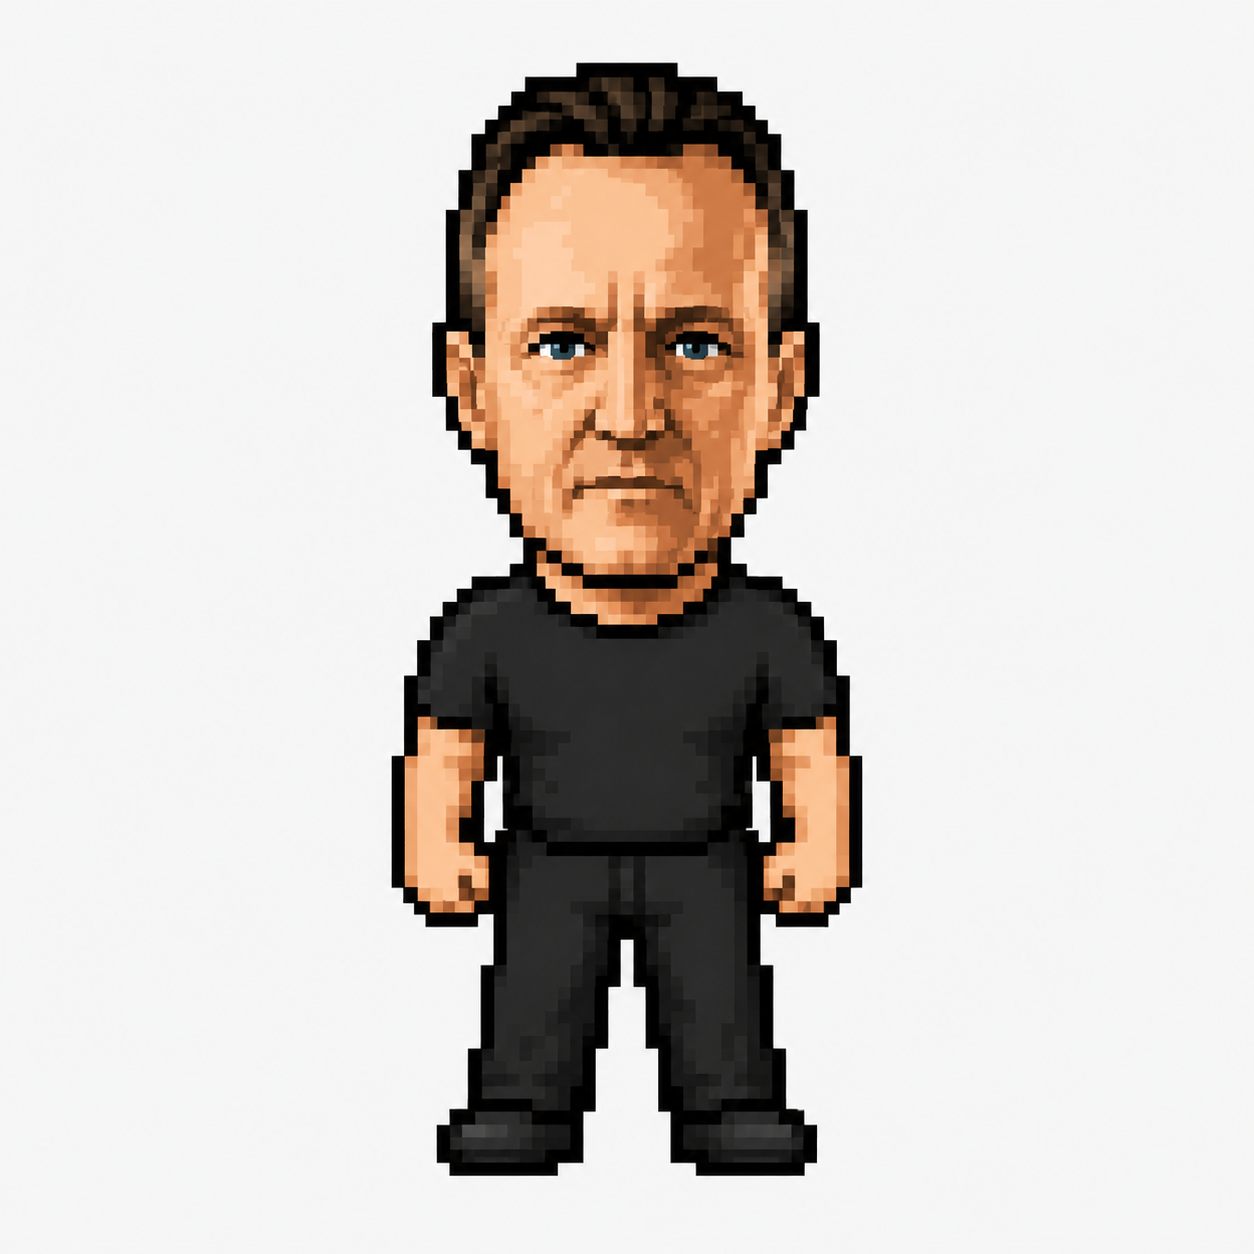
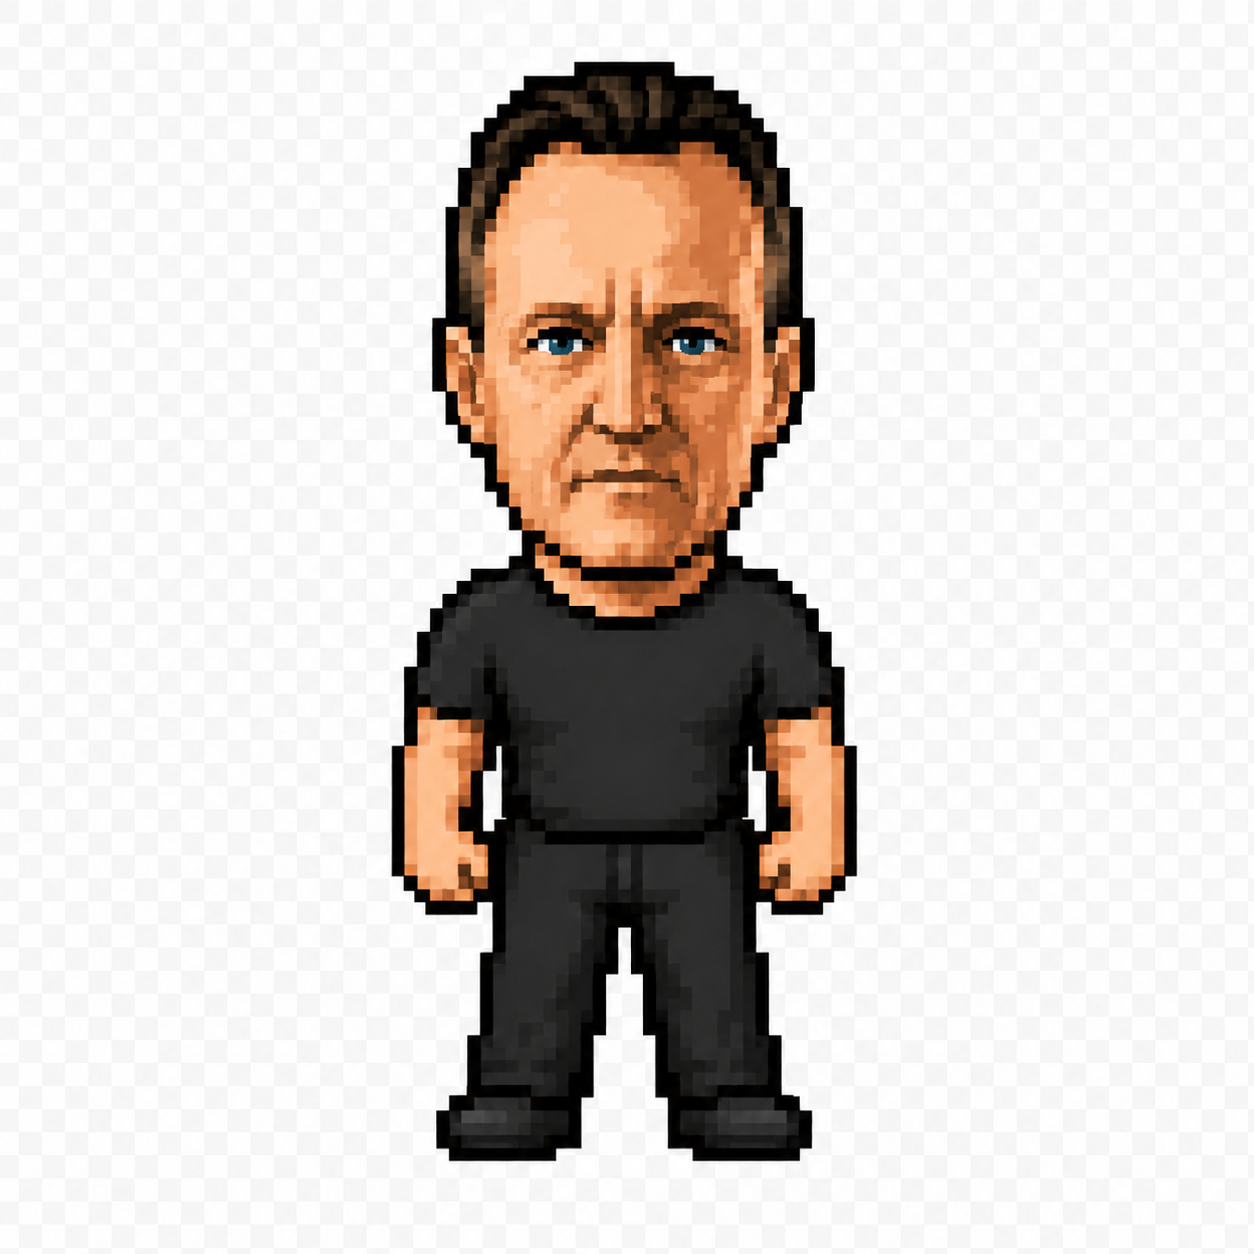
feat: new Kostya sprite, steal flags randomly every 3 or 5 placed

diff --git a/game.js b/game.js
@@ -20,7 +20,8 @@ class Game {
     this.cells = [];
     this.flagCount = 0;
     this.revealedCount = 0;
-    this.openedSinceLastSteal = 0;
+    this.flagsPlacedSinceLastSteal = 0;
+    this.nextStealThreshold = this._randomThreshold();
     this.firstClick = true;
     this.gameOver = false;
     this.won = false;
@@ -69,7 +70,7 @@ class Game {
     }
   }
 
-  // Returns { type: 'none'|'mine'|'reveal'|'win', steals?: number, row?: number, col?: number }
+  // Returns { type: 'none'|'mine'|'reveal'|'win', row?: number, col?: number }
   reveal(row, col) {
     if (this.gameOver || this.won) return { type: 'none' };
     const cell = this.cells[row][col];
@@ -90,17 +91,13 @@ class Game {
 
     const newlyRevealed = this._floodFill(row, col);
     this.revealedCount += newlyRevealed;
-    this.openedSinceLastSteal += newlyRevealed;
-
-    const steals = Math.floor(this.openedSinceLastSteal / 5);
-    this.openedSinceLastSteal %= 5;
 
     if (this.revealedCount >= this.rows * this.cols - this.totalMines) {
       this.won = true;
       this._stopTimer();
-      return { type: 'win', steals };
+      return { type: 'win' };
     }
-    return { type: 'reveal', steals };
+    return { type: 'reveal' };
   }
 
   _floodFill(row, col) {
@@ -124,14 +121,27 @@ class Game {
     return count;
   }
 
-  // Returns true (flag placed), false (flag removed), or null (not allowed)
+  // Returns { placed: bool, steals: 0|1 } or null (not allowed)
   toggleFlag(row, col) {
     if (this.gameOver || this.won || this.firstClick) return null;
     const cell = this.cells[row][col];
     if (cell.revealed) return null;
     cell.flagged = !cell.flagged;
     this.flagCount += cell.flagged ? 1 : -1;
-    return cell.flagged;
+    let steals = 0;
+    if (cell.flagged) {
+      this.flagsPlacedSinceLastSteal++;
+      if (this.flagsPlacedSinceLastSteal >= this.nextStealThreshold) {
+        this.flagsPlacedSinceLastSteal = 0;
+        this.nextStealThreshold = this._randomThreshold();
+        steals = 1;
+      }
+    }
+    return { placed: cell.flagged, steals };
+  }
+
+  _randomThreshold() {
+    return Math.random() < 0.5 ? 3 : 5;
   }
 
   // Returns [row, col] of stolen flag, or null if no flags exist
@@ -261,9 +271,8 @@ const UI = {
     this._updateMineCounter();
     if (result.type === 'mine') {
       this._showGameOver(result.row, result.col);
-    } else {
-      this._scheduleKostyaSteals(result.steals);
-      if (result.type === 'win') this._showWin();
+    } else if (result.type === 'win') {
+      this._showWin();
     }
   },
 
@@ -272,6 +281,7 @@ const UI = {
     if (result !== null) {
       this._updateCellEl(row, col);
       this._updateMineCounter();
+      this._scheduleKostyaSteals(result.steals);
     }
   },
 